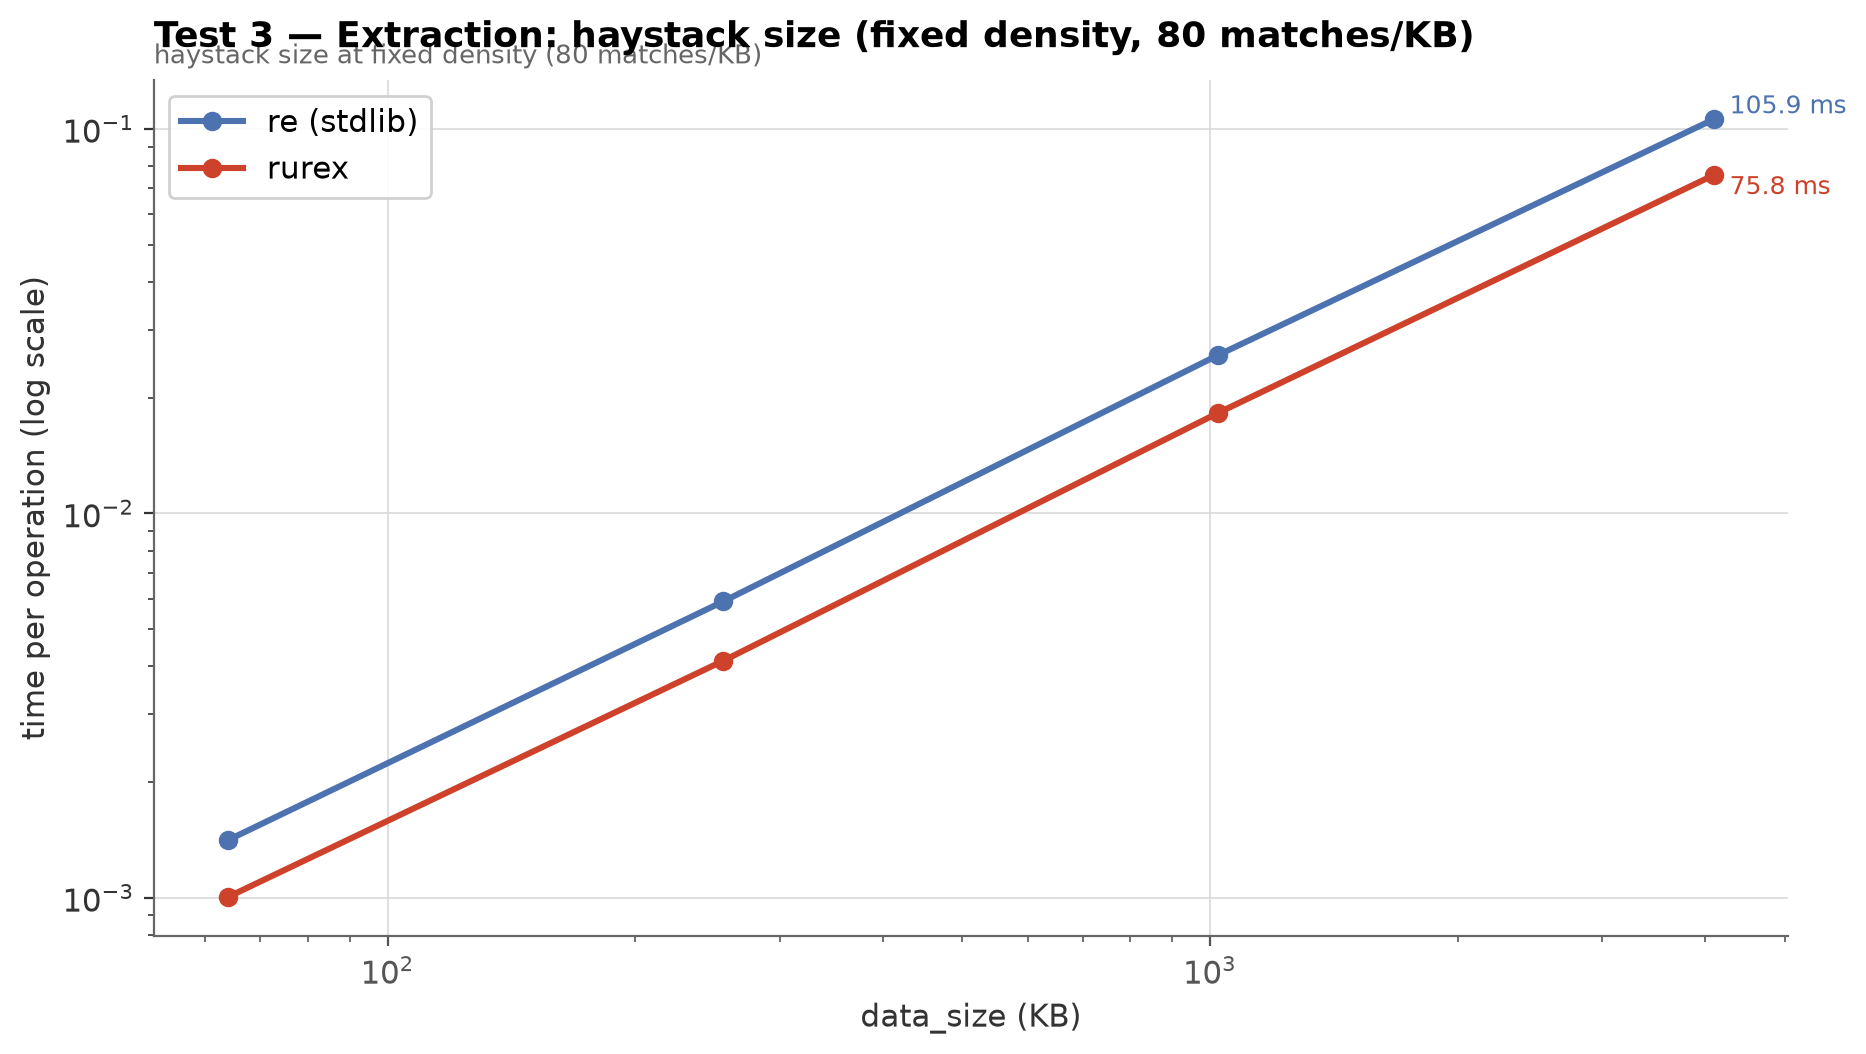
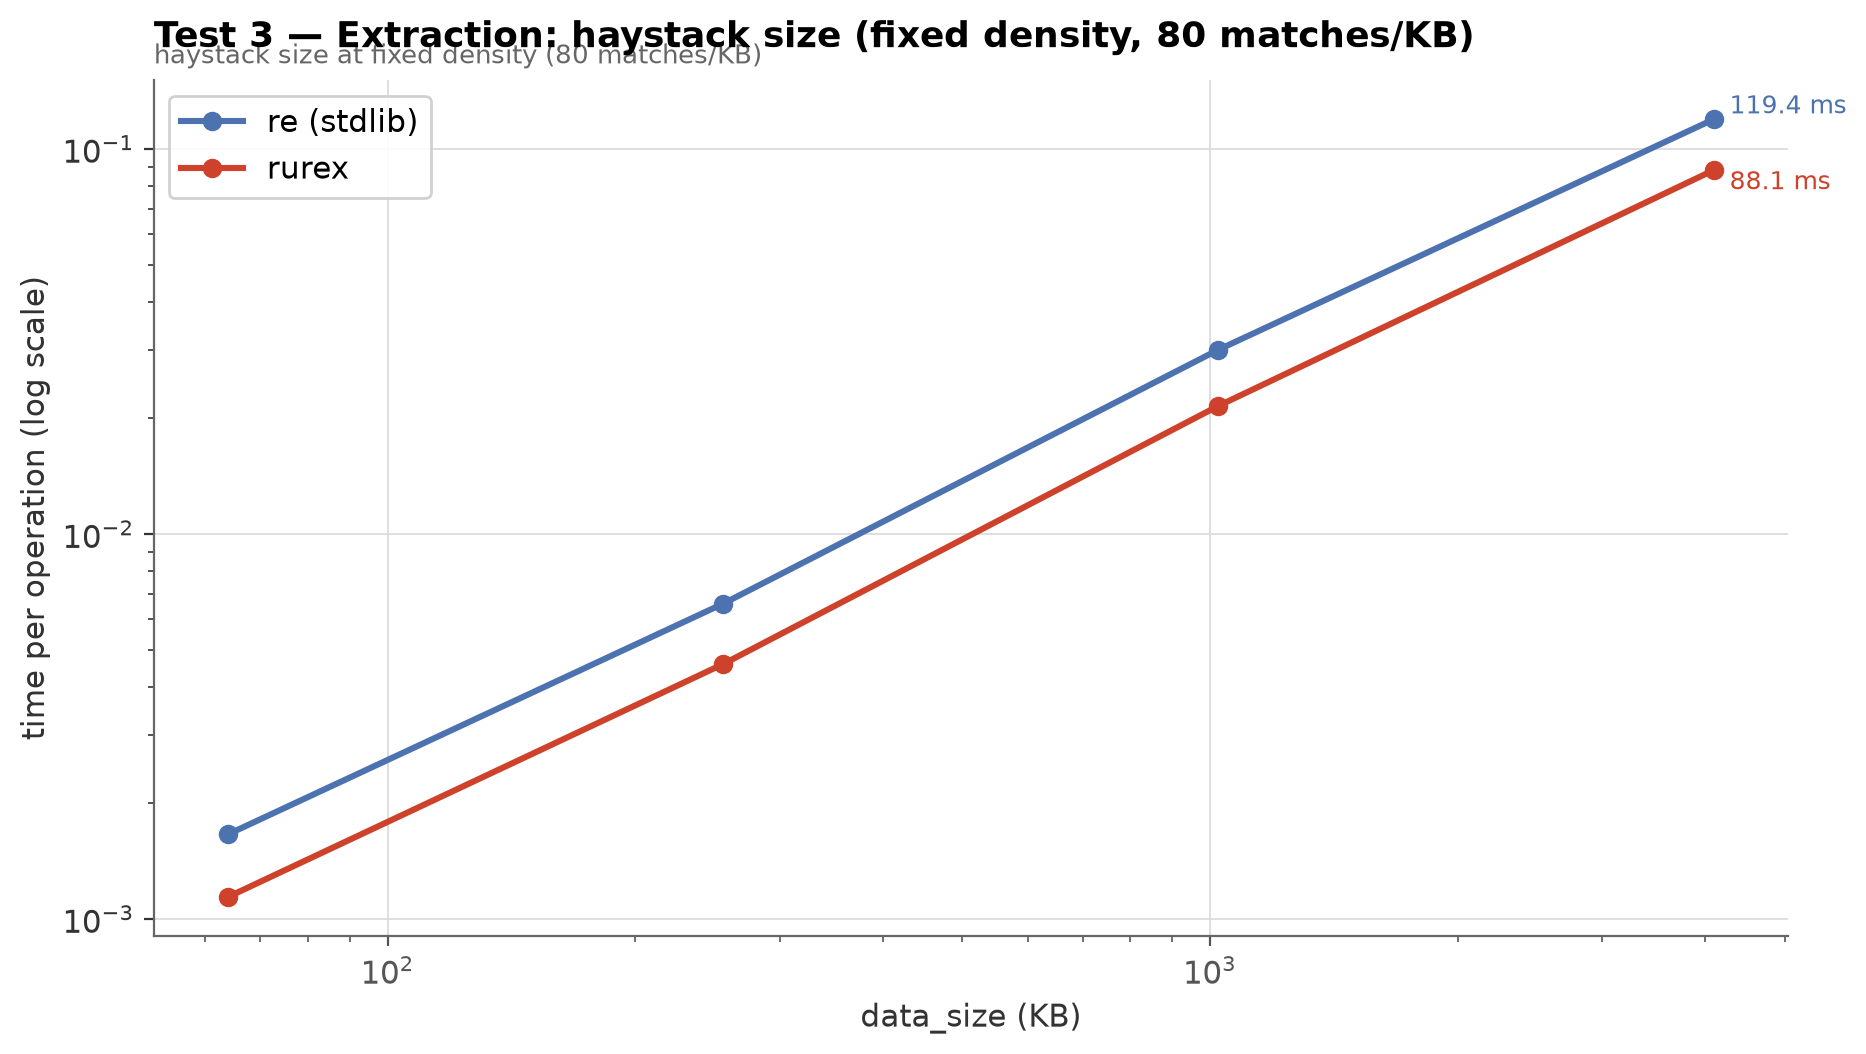
Re-measure benchmarks after the error-parity work
All pattern-error translation is compile-time only and the match
paths are unchanged; ratios hold within session noise (re drifted
slower this session, nudging the dense-extraction ratios in rurex's
favor). Test 1 x13.0 peak, Test 2 needle@0 471 ns vs re 179 ns and
x7.4-12.7 elsewhere, Tests 3/4 x1.36-1.45 and x1.2-6.3, Test 5 flat
~270 ns. Docs tables refreshed to this run.

diff --git a/docs/benchmarks.md b/docs/benchmarks.md
@@ -11,15 +11,14 @@ per operation** on Y.
   and both engines scale linearly.
 - **Test 2 — Scan vs needle position:** with the needle in the very
   first bytes both engines answer in well under a microsecond (`re`
-  168 ns, rurex 455 ns); from a quarter of the text onward rurex is
-  ×7.3–13.5 faster.
+  179 ns, rurex 471 ns); from a quarter of the text onward rurex is
+  ×7.4–12.7 faster.
 - **Test 3 — Extraction vs haystack size:** rurex ahead ~×1.4 at
   match-dense fixed density.
 - **Test 4 — Extraction vs match density:** rurex ahead at every
-  measured density — ×6.2 when matches are sparse, narrowing to
-  parity (×1.00) at the densest.
+  measured density — ×6.3 when matches are sparse, ×1.2–1.3 at the densest.
 - **Test 5 — Pathological:** `re` never finishes; rurex answers in
-  **~250 ns** at any size.
+  **~270 ns** at any size.
 
 A standalone HTML twin of this page (images embedded) can be rendered
 locally for browser viewing: `python benchmarks/make_charts.py --html`
@@ -84,11 +83,11 @@ amet node lazy fox alpha the the-needle-string …
 
 | Size | `re` | rurex | Speedup |
 |---:|---:|---:|---:|
-| 64 KB | 78 µs | 6.0 µs | rurex ×13.0 |
-| 256 KB | 312 µs | 23 µs | rurex ×13.4 |
-| 1 MB | 1.24 ms | 93 µs | rurex ×13.4 |
-| 4 MB | 5.00 ms | 407 µs | rurex ×12.3 |
-| 16 MB | 20.5 ms | 3.12 ms | rurex ×6.6 |
+| 64 KB | 82 µs | 6.3 µs | rurex ×13.0 |
+| 256 KB | 329 µs | 25 µs | rurex ×13.0 |
+| 1 MB | 1.32 ms | 101 µs | rurex ×13.0 |
+| 4 MB | 5.34 ms | 498 µs | rurex ×10.7 |
+| 16 MB | 21.9 ms | 3.37 ms | rurex ×6.5 |
 
 Both engines scale linearly; rurex' constant is several times smaller.
 The advantage narrows at 16 MB as scanning becomes memory-bound — the
@@ -120,16 +119,16 @@ from the first bytes (0%) to the very end (100%). Position 0% favors
 
 | Needle at | `re` | rurex | Speedup |
 |---:|---:|---:|---:|
-| 0% | 168 ns | 455 ns | `re` ×2.7 |
-| 25% | 2.51 ms | 186 µs | rurex ×13.5 |
-| 50% | 5.02 ms | 423 µs | rurex ×11.9 |
-| 75% | 7.59 ms | 863 µs | rurex ×8.8 |
-| 100% | 10.2 ms | 1.40 ms | rurex ×7.3 |
+| 0% | 179 ns | 471 ns | `re` ×2.6 |
+| 25% | 2.65 ms | 208 µs | rurex ×12.7 |
+| 50% | 5.53 ms | 538 µs | rurex ×10.3 |
+| 75% | 8.10 ms | 1.01 ms | rurex ×8.0 |
+| 100% | 11.1 ms | 1.49 ms | rurex ×7.4 |
 
 The closest point of the race is a needle in the very first bytes:
 `re`'s fast path answers in 170 ns and rurex in 436 ns — both well
 under a microsecond, both invisible to any real workload. Past the
-first quarter of the text, rurex' scan speed dominates by ×7.3–13.5.
+first quarter of the text, rurex' scan speed dominates by ×7.4–12.7.
 (An earlier build showed a ~0.7 ms floor here — every `search` call
 was counting the characters of the whole haystack to fill
 `Match.endpos` even when the match sat in the first bytes; `endpos` is
@@ -161,10 +160,10 @@ alpha word value value node al …
 
 | Size | `re` | rurex | Speedup |
 |---:|---:|---:|---:|
-| 64 KB | 1.41 ms | 1.00 ms | rurex ×1.41 |
-| 256 KB | 5.90 ms | 4.13 ms | rurex ×1.43 |
-| 1 MB | 25.8 ms | 18.3 ms | rurex ×1.41 |
-| 4 MB | 105.9 ms | 75.8 ms | rurex ×1.40 |
+| 64 KB | 1.66 ms | 1.14 ms | rurex ×1.45 |
+| 256 KB | 6.59 ms | 4.59 ms | rurex ×1.44 |
+| 1 MB | 30.1 ms | 21.5 ms | rurex ×1.40 |
+| 4 MB | 119.4 ms | 88.1 ms | rurex ×1.36 |
 
 At this density rurex is steadily ~×1.4 ahead: `findall` builds only
 the returned values (strings, or one string per group) in one pass —
@@ -195,15 +194,16 @@ r"\d{3,4}"
 
 | Density | `re` | rurex | Speedup |
 |---:|---:|---:|---:|
-| 5 /KB | 16.8 ms | 2.70 ms | rurex ×6.2 |
-| 20 /KB | 18.2 ms | 5.41 ms | rurex ×3.4 |
-| 80 /KB | 25.0 ms | 18.2 ms | rurex ×1.4 |
-| 160 /KB | 34.1 ms | 33.9 ms | rurex ×1.00 |
+| 5 /KB | 19.8 ms | 3.12 ms | rurex ×6.3 |
+| 20 /KB | 24.1 ms | 6.21 ms | rurex ×3.9 |
+| 80 /KB | 30.3 ms | 24.3 ms | rurex ×1.2 |
+| 160 /KB | 48.0 ms | 38.0 ms | rurex ×1.3 |
 
-With sparse matches, scanning dominates and rurex is up to 6.2×
+With sparse matches, scanning dominates and rurex is up to 6.3×
 faster; as matches multiply, the per-match cost of building the
 returned values takes over and `re` closes the gap — at the densest
-measured point the two engines are effectively even (×1.00).
+measured points the two engines are within ~×1.3 of each other
+(run-to-run noise on this machine moves this band by ±0.3).
 
 ---
 
@@ -233,13 +233,13 @@ xxxxxxxxxxxxxxxxxxxxxxxx    (n = 24 of the sweep; no y — nothing matches)
 
 | n | `re` | rurex |
 |---:|---:|---:|
-| 8 | 21.9 µs | 233 ns |
-| 12 | 248 µs | 234 ns |
-| 16 | 3.64 ms | 236 ns |
-| 20 | 61.9 ms | 242 ns |
-| 24 | 982 ms | 250 ns |
-| 26 | *≥ 2 s — still running at the timeout* | 250 ns |
-| 28 | — | 252 ns |
+| 8 | 26.4 µs | 261 ns |
+| 12 | 243 µs | 261 ns |
+| 16 | 3.89 ms | 265 ns |
+| 20 | 63.4 ms | 267 ns |
+| 24 | 1.04 s | 269 ns |
+| 26 | *≥ 2 s — still running at the timeout* | 269 ns |
+| 28 | — | 313 ns |
 
 Extrapolating `re`'s doubling curve, n=40 would take longer than the
 age of the universe. rurex answers every input in well under half of a
